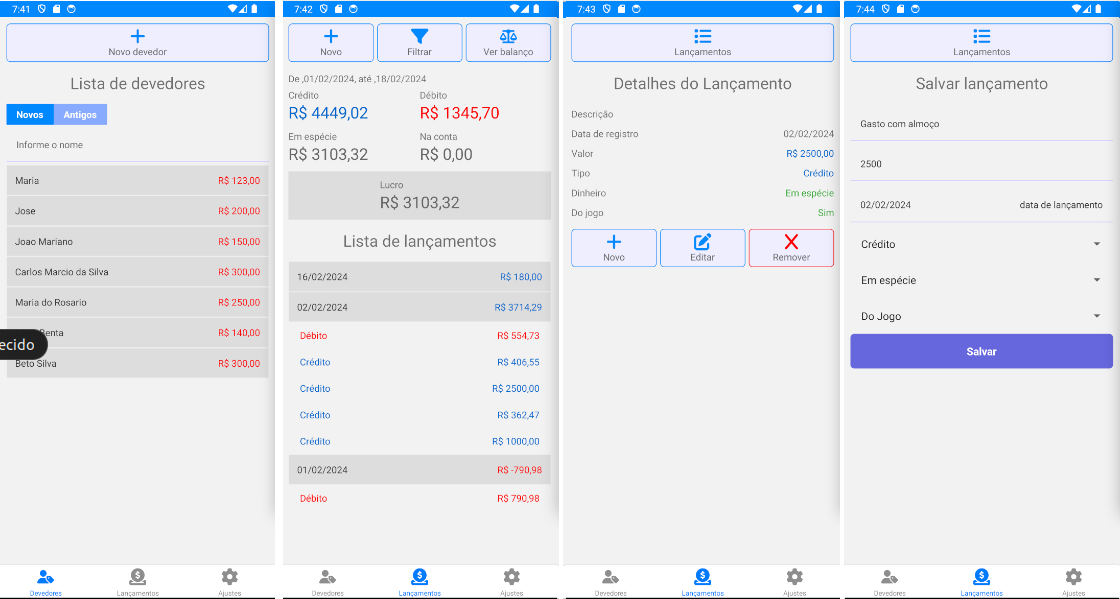
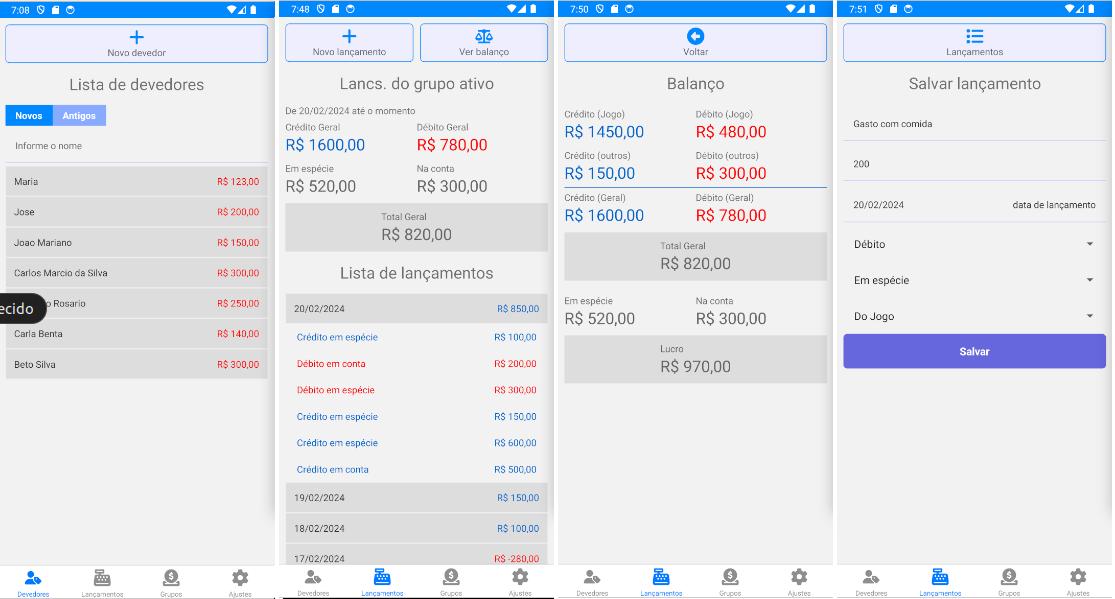
Após gerada nova imagem principal para o readme

diff --git a/src/shared/components/filtra-lancamentos-ui.tsx b/src/shared/components/filtra-lancamentos-ui.tsx
@@ -95,7 +95,7 @@ function FiltraLancamentosUI( props : FiltraLancamentosProps ): React.JSX.Elemen
         <MostraBalancoResumidoUI 
             lancamentos={props.lancamentos}
         />
-        
+
         <TitleUI title='Lista de lançamentos' marginTop={10} />      
 
         <ViewUI marginBottom={20}>        
@@ -118,7 +118,7 @@ function FiltraLancamentosUI( props : FiltraLancamentosProps ): React.JSX.Elemen
                           justifyContent="space-between">
                         <TextUI variant='dark-x'>
                             {converter.formatDate( grupo.dataLanc )}
-                        </TextUI>
+                        </TextUI>                        
                         <TextUI variant={grupo.valor < 0 ? 'danger' : 'primary'}>
                             {converter.formatBRL( grupo.valor )}
                         </TextUI>
@@ -138,8 +138,11 @@ function FiltraLancamentosUI( props : FiltraLancamentosProps ): React.JSX.Elemen
                                 isRow={true}
                                 justifyContent="space-between">
                               <TextUI variant={lancamento.tipo === 'debito' ? 'danger' : 'primary'}>
-                                  {lancamento.tipo === 'debito' ? 'Débito' : 'Crédito'}
-                              </TextUI>
+                                  {
+                                    ( lancamento.tipo === 'debito' ? 'Débito' : 'Crédito' ) + 
+                                    ( lancamento.emContaCorrente == true ? ' em conta' : ' em espécie' )
+                                  }
+                              </TextUI>                              
                               <TextUI variant={lancamento.tipo === 'debito' ? 'danger' : 'primary'}>
                                   {converter.formatBRL( lancamento.valor )}
                               </TextUI>
